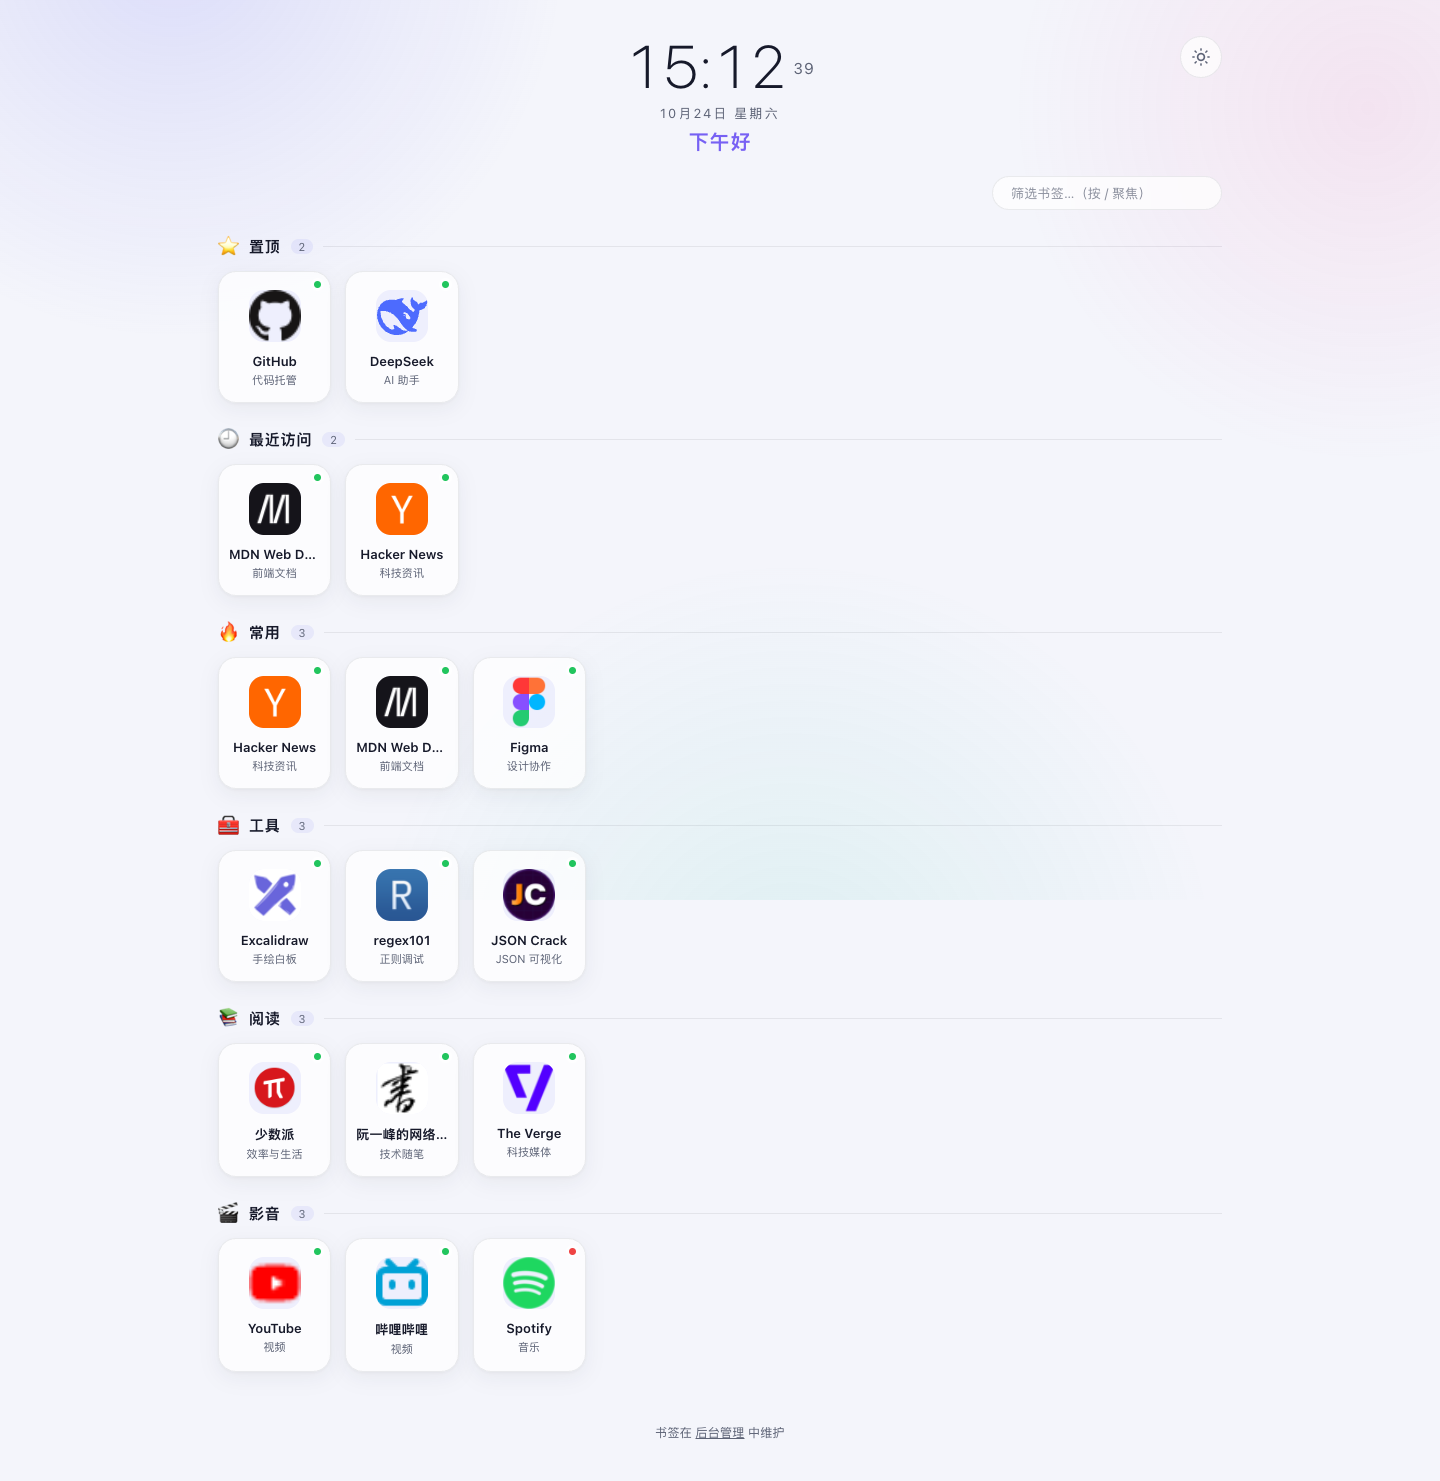
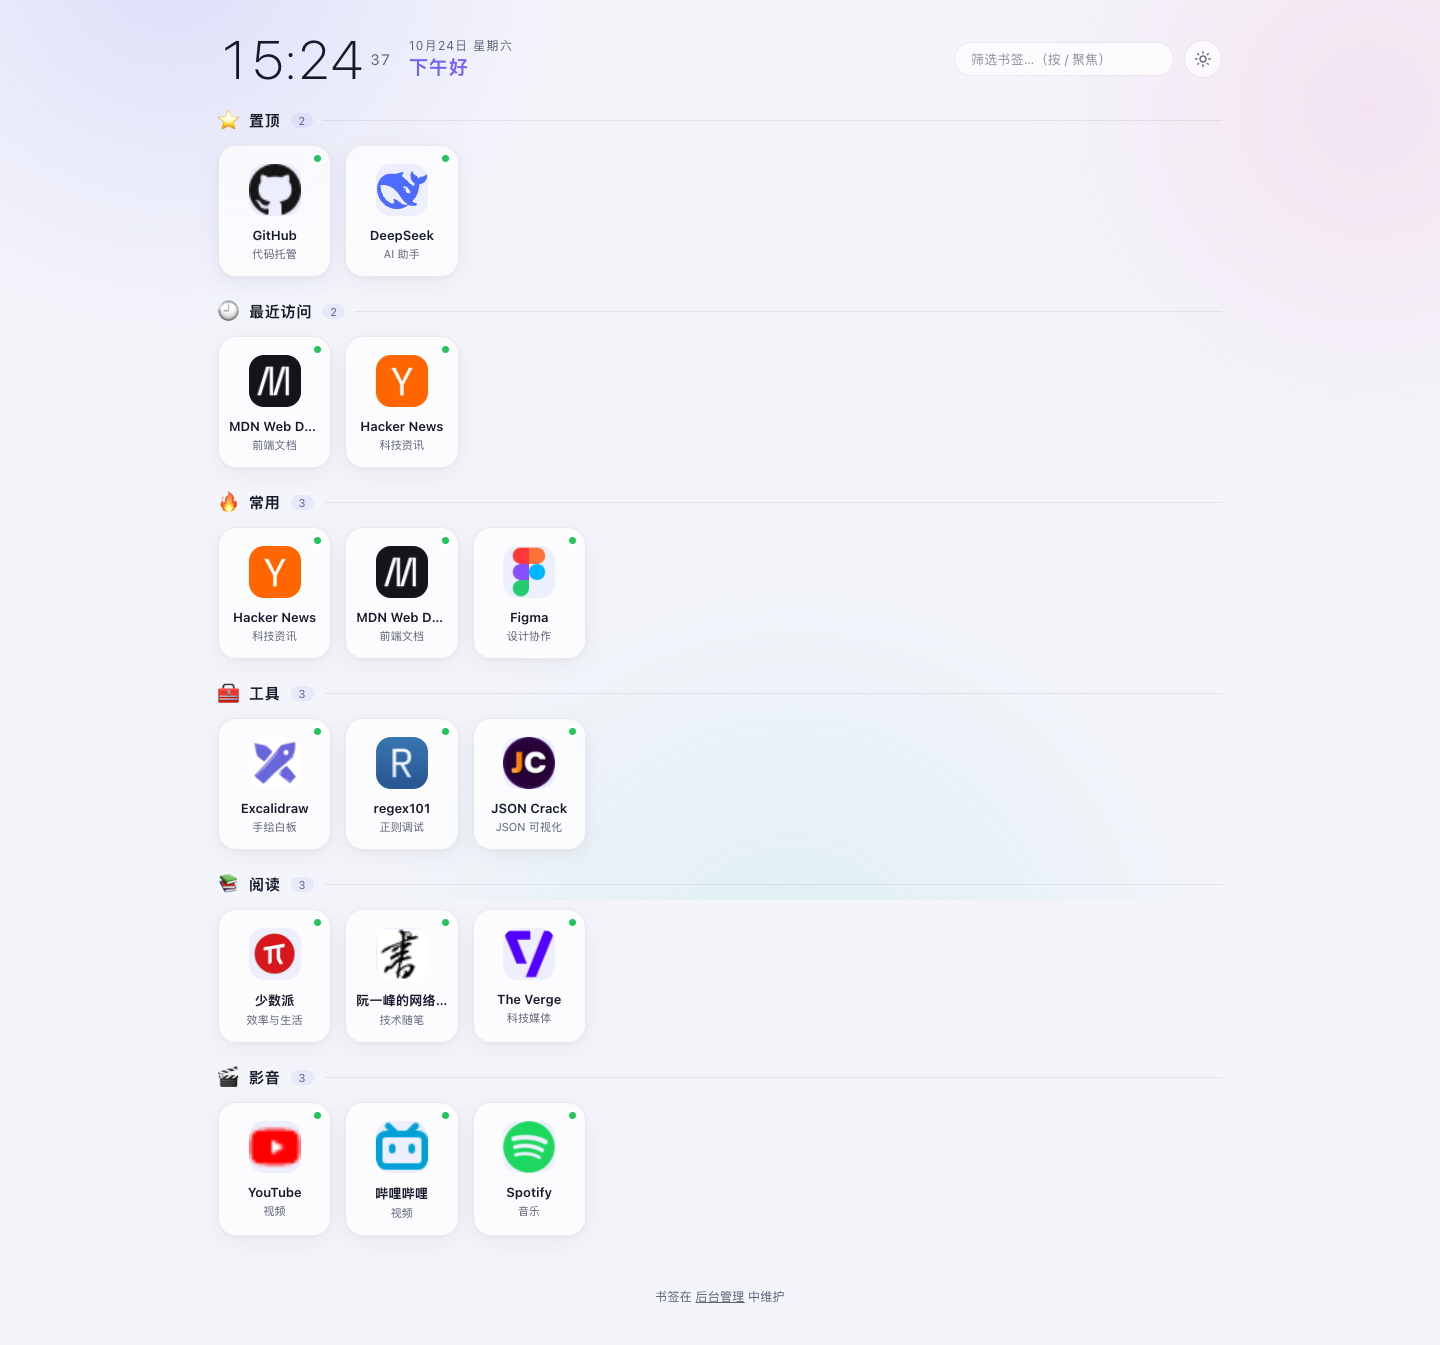
release: v1.1.2

diff --git a/static/style.css b/static/style.css
@@ -66,18 +66,31 @@ body::before {
 .page {
   max-width: 1060px;
   margin: 0 auto;
-  padding: clamp(20px, 4vh, 48px) 28px 40px;
+  padding: clamp(18px, 3.5vh, 40px) 28px 40px;
 }
 
 ::selection { background: rgba(99, 102, 241, 0.25); }
 
 :focus-visible { outline: 2px solid var(--accent); outline-offset: 2px; border-radius: 6px; }
 
-/* ---------- 顶部：时钟与问候 ---------- */
-.hero { position: relative; text-align: center; animation: rise 0.6s ease both; }
+/* ---------- 顶部工具栏：时钟 / 日期问候 / 筛选 / 主题 ---------- */
+.topbar {
+  display: flex;
+  align-items: center;
+  justify-content: space-between;
+  gap: 24px;
+  animation: rise 0.6s ease both;
+}
+
+.hero {
+  display: flex;
+  align-items: center;
+  gap: 18px;
+  min-width: 0;
+}
 
 .clock-time {
-  font-size: clamp(44px, 6vw, 60px);
+  font-size: clamp(38px, 4.6vw, 54px);
   font-weight: 200;
   line-height: 1;
   letter-spacing: 1px;
@@ -85,33 +98,74 @@ body::before {
 }
 
 .clock-sec {
-  font-size: 0.26em;
+  font-size: 0.28em;
   font-weight: 400;
   color: var(--text-2);
   margin-left: 0.4em;
   vertical-align: 0.9em;
 }
 
-.clock-date { margin-top: 8px; font-size: 13px; color: var(--text-2); letter-spacing: 2px; }
+.hero-meta {
+  display: flex;
+  flex-direction: column;
+  gap: 2px;
+  min-width: 0;
+}
+
+.clock-date {
+  margin: 0;
+  font-size: 12px;
+  color: var(--text-2);
+  letter-spacing: 1.2px;
+}
 
 .greeting {
-  margin: 6px 0 0;
-  font-size: 20px;
+  margin: 0;
+  font-size: 19px;
   font-weight: 600;
+  line-height: 1.25;
   letter-spacing: 0.5px;
+  white-space: nowrap;
+  overflow: hidden;
+  text-overflow: ellipsis;
   background: linear-gradient(92deg, var(--accent), var(--accent-2));
   -webkit-background-clip: text;
   background-clip: text;
   color: transparent;
 }
 
-/* 主题切换按钮（右上角） */
+.top-actions {
+  display: flex;
+  align-items: center;
+  gap: 10px;
+  flex-shrink: 0;
+}
+
+.filter-input {
+  font: inherit;
+  font-size: 13px;
+  color: var(--text);
+  background: var(--surface);
+  border: 1px solid var(--border);
+  border-radius: 999px;
+  padding: 8px 16px;
+  width: 220px;
+  outline: none;
+  backdrop-filter: blur(12px);
+  -webkit-backdrop-filter: blur(12px);
+  transition: border-color 0.2s, box-shadow 0.2s;
+}
+.filter-input:focus {
+  border-color: rgba(99, 102, 241, 0.5);
+  box-shadow: 0 0 0 3px var(--accent-ring);
+}
+.filter-input::placeholder { color: var(--text-2); opacity: 0.7; }
+
+/* 主题切换按钮 */
 .theme-toggle {
-  position: absolute;
-  top: 0;
-  right: 0;
-  width: 42px;
-  height: 42px;
+  width: 38px;
+  height: 38px;
+  flex-shrink: 0;
   display: grid;
   place-items: center;
   font: inherit;
@@ -125,17 +179,17 @@ body::before {
   transition: transform 0.2s, color 0.2s, box-shadow 0.2s;
 }
 .theme-toggle:hover { color: var(--text); transform: rotate(15deg); box-shadow: var(--shadow); }
-.theme-toggle svg { width: 20px; height: 20px; }
+.theme-toggle svg { width: 18px; height: 18px; }
 .icon-moon { display: none; }
 [data-theme="dark"] .icon-sun { display: none; }
 [data-theme="dark"] .icon-moon { display: block; }
 
 /* ---------- 书签分类 ---------- */
-.categories { margin-top: 18px; }
+.categories { margin-top: 20px; }
 
 .category { animation: rise 0.6s ease both; }
 
-.cat-head { display: flex; align-items: center; gap: 10px; margin: 26px 0 14px; }
+.cat-head { display: flex; align-items: center; gap: 10px; margin: 24px 0 14px; }
 .cat-icon { font-size: 17px; line-height: 1; }
 .cat-head h2 { margin: 0; font-size: 15px; font-weight: 700; letter-spacing: 0.5px; }
 .cat-count {
@@ -460,31 +514,6 @@ body::before {
 /* =========================================================
  *  本地筛选与图标细节
  * ========================================================= */
-.filter-bar {
-  display: flex;
-  justify-content: flex-end;
-  margin-top: 20px;
-}
-.filter-bar input {
-  font: inherit;
-  font-size: 13px;
-  color: var(--text);
-  background: var(--surface);
-  border: 1px solid var(--border);
-  border-radius: 999px;
-  padding: 8px 18px;
-  width: 230px;
-  outline: none;
-  backdrop-filter: blur(12px);
-  -webkit-backdrop-filter: blur(12px);
-  transition: border-color 0.2s, box-shadow 0.2s;
-}
-.filter-bar input:focus {
-  border-color: rgba(99, 102, 241, 0.5);
-  box-shadow: 0 0 0 3px var(--accent-ring);
-}
-.filter-bar input::placeholder { color: var(--text-2); opacity: 0.7; }
-
 .card.filtered-out, .category.filtered-out { display: none; }
 
 /* 暗色模式下轻微压暗，避免白底 favicon 过于刺眼 */
@@ -497,7 +526,13 @@ body::before {
 }
 .btn.dirty { animation: dirtyPulse 1.8s infinite; }
 
-@media (max-width: 640px) {
-  .filter-bar { justify-content: stretch; }
-  .filter-bar input { width: 100%; }
+/* 窄屏：时钟与日期问候占一行，筛选和主题切换放下一行 */
+@media (max-width: 760px) {
+  .topbar { flex-wrap: wrap; align-items: flex-end; gap: 14px; }
+  .hero { width: 100%; justify-content: space-between; gap: 12px; }
+  .hero-meta { align-items: flex-end; text-align: right; }
+  .top-actions { width: 100%; }
+  .filter-input { flex: 1; width: auto; min-width: 0; }
+  .clock-time { font-size: clamp(40px, 11vw, 52px); }
+  .greeting { font-size: 18px; }
 }

diff --git a/static/index.html b/static/index.html
@@ -6,30 +6,33 @@
   <meta name="theme-color" media="(prefers-color-scheme: light)" content="#f4f5fb" />
   <meta name="theme-color" media="(prefers-color-scheme: dark)"  content="#0d0f17" />
   <title>Lodestar · 我的导航</title>
-  <link rel="stylesheet" href="style.css?v=12" />
+  <link rel="stylesheet" href="style.css?v=13" />
   <link rel="manifest" href="/manifest.webmanifest" />
   <link rel="icon" href="/icon.svg" type="image/svg+xml" />
 </head>
 <body>
   <div class="page">
-    <!-- 顶部：时钟 + 问候语 + 主题切换 -->
-    <header class="hero">
-      <button class="theme-toggle" id="themeToggle" title="切换明暗主题" aria-label="切换明暗主题">
-        <svg class="icon-sun"  viewBox="0 0 24 24" fill="none" stroke="currentColor" stroke-width="2" stroke-linecap="round"><circle cx="12" cy="12" r="4"/><path d="M12 2v2M12 20v2M4.9 4.9l1.4 1.4M17.7 17.7l1.4 1.4M2 12h2M20 12h2M4.9 19.1l1.4-1.4M17.7 6.3l1.4-1.4"/></svg>
-        <svg class="icon-moon" viewBox="0 0 24 24" fill="none" stroke="currentColor" stroke-width="2" stroke-linecap="round" stroke-linejoin="round"><path d="M21 12.8A9 9 0 1 1 11.2 3 7 7 0 0 0 21 12.8z"/></svg>
-      </button>
-
-      <div class="clock-time">
-        <span id="time">--:--</span><span class="clock-sec" id="sec">--</span>
+    <!-- 顶部工具栏：时钟 + 日期/问候 + 筛选 + 主题切换 -->
+    <header class="topbar">
+      <div class="hero">
+        <div class="clock-time">
+          <span id="time">--:--</span><span class="clock-sec" id="sec">--</span>
+        </div>
+        <div class="hero-meta">
+          <div class="clock-date" id="date"></div>
+          <h1 class="greeting" id="greeting">你好</h1>
+        </div>
       </div>
-      <div class="clock-date" id="date"></div>
-      <h1 class="greeting" id="greeting">你好</h1>
-    </header>
 
-    <!-- 本地筛选（按 / 聚焦） -->
-    <div class="filter-bar">
-      <input id="filterInput" type="text" placeholder="筛选书签…（按 / 聚焦）" spellcheck="false" />
-    </div>
+      <div class="top-actions">
+        <input id="filterInput" class="filter-input" type="text"
+               placeholder="筛选书签…（按 / 聚焦）" spellcheck="false" />
+        <button class="theme-toggle" id="themeToggle" title="切换明暗主题" aria-label="切换明暗主题">
+          <svg class="icon-sun"  viewBox="0 0 24 24" fill="none" stroke="currentColor" stroke-width="2" stroke-linecap="round"><circle cx="12" cy="12" r="4"/><path d="M12 2v2M12 20v2M4.9 4.9l1.4 1.4M17.7 17.7l1.4 1.4M2 12h2M20 12h2M4.9 19.1l1.4-1.4M17.7 6.3l1.4-1.4"/></svg>
+          <svg class="icon-moon" viewBox="0 0 24 24" fill="none" stroke="currentColor" stroke-width="2" stroke-linecap="round" stroke-linejoin="round"><path d="M21 12.8A9 9 0 1 1 11.2 3 7 7 0 0 0 21 12.8z"/></svg>
+        </button>
+      </div>
+    </header>
 
     <!-- 书签分类（由 app.js 从 /api/data 渲染） -->
     <main id="categories" class="categories"></main>

diff --git a/static/admin.html b/static/admin.html
@@ -5,7 +5,7 @@
   <meta name="viewport" content="width=device-width, initial-scale=1.0" />
   <meta name="robots" content="noindex" />
   <title>Lodestar · 后台管理</title>
-  <link rel="stylesheet" href="style.css?v=12" />
+  <link rel="stylesheet" href="style.css?v=13" />
 </head>
 <body>
   <!-- 登录卡片或编辑器，由 admin.js 根据登录状态渲染 -->

diff --git a/CHANGELOG.md b/CHANGELOG.md
@@ -5,6 +5,13 @@
 
 ## [Unreleased]
 
+## [1.1.2] - 2026-10-24
+
+### Changed
+
+- 重构首页顶部为紧凑工具栏：时钟与日期 / 问候左对齐，筛选和主题切换移到右上角同一行
+- 去掉独立的筛选栏，桌面端内容区起点从 237px 提前到 110px；窄屏自动折成两行
+
 ## [1.1.1] - 2026-10-24
 
 ### Changed
@@ -71,7 +78,8 @@
 - 图标代理仅允许书签中出现过的 host，避免被滥用为公开代理
 - 仓库仅包含演示书签数据，真实数据通过 `.gitignore` 排除
 
-[Unreleased]: https://github.com/XiaolongZhang-dev/lodestar/compare/v1.1.1...HEAD
+[Unreleased]: https://github.com/XiaolongZhang-dev/lodestar/compare/v1.1.2...HEAD
+[1.1.2]: https://github.com/XiaolongZhang-dev/lodestar/releases/tag/v1.1.2
 [1.1.1]: https://github.com/XiaolongZhang-dev/lodestar/releases/tag/v1.1.1
 [1.1.0]: https://github.com/XiaolongZhang-dev/lodestar/releases/tag/v1.1.0
 [1.0.1]: https://github.com/XiaolongZhang-dev/lodestar/releases/tag/v1.0.1

diff --git a/README.md b/README.md
@@ -61,7 +61,7 @@ docker compose -f docker-compose.image.yml up -d
 ```
 
 - 已有数据目录时，在 `.env` 中设置 `LODESTAR_DATA_DIR=/你的路径/data`
-- 想固定版本可设置 `LODESTAR_IMAGE=acc110789/lodestar:1.1.1`
+- 想固定版本可设置 `LODESTAR_IMAGE=acc110789/lodestar:1.1.2`
 - 也可以把这个文件复制为 `docker-compose.yml` 后直接 `docker compose up -d`
 
 也可以直接 `docker run`：

diff --git a/README.en.md b/README.en.md
@@ -64,7 +64,7 @@ docker compose -f docker-compose.image.yml up -d
 ```
 
 - If you already have a data directory, set `LODESTAR_DATA_DIR=/path/to/data` in `.env`
-- Pin a version with `LODESTAR_IMAGE=acc110789/lodestar:1.1.1`
+- Pin a version with `LODESTAR_IMAGE=acc110789/lodestar:1.1.2`
 - You can also copy the file to `docker-compose.yml` and run `docker compose up -d`
 
 Or run directly with `docker run`:
